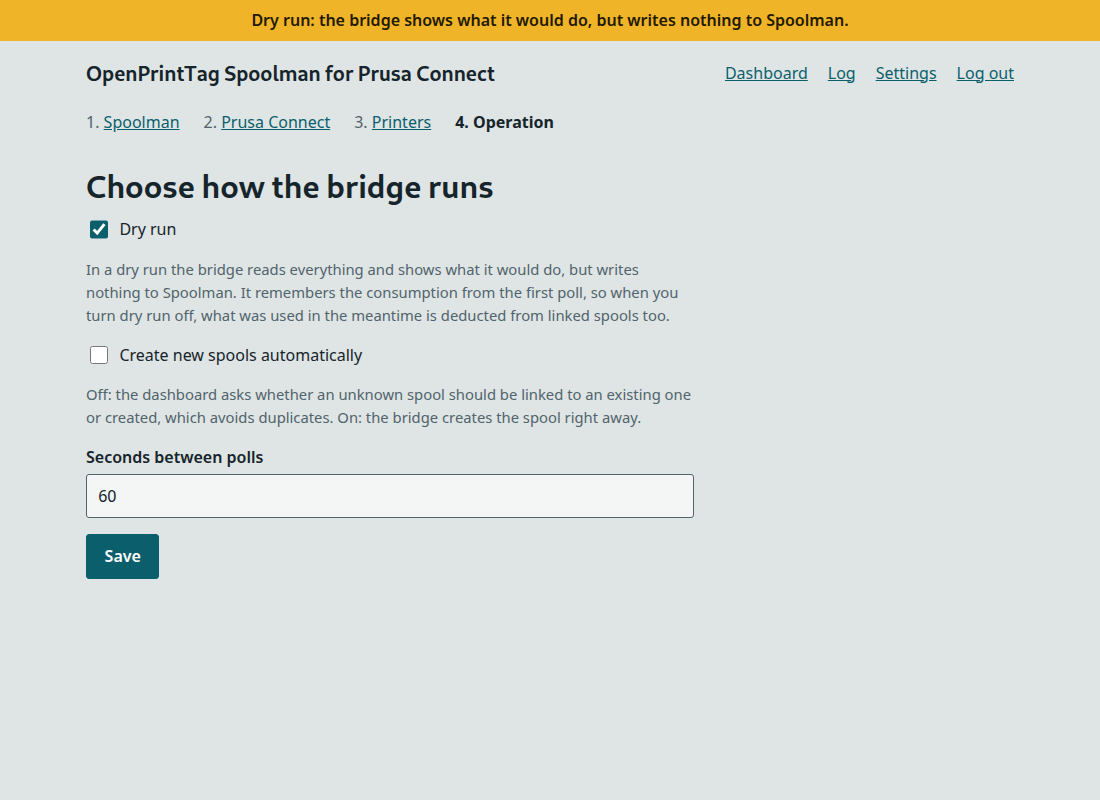
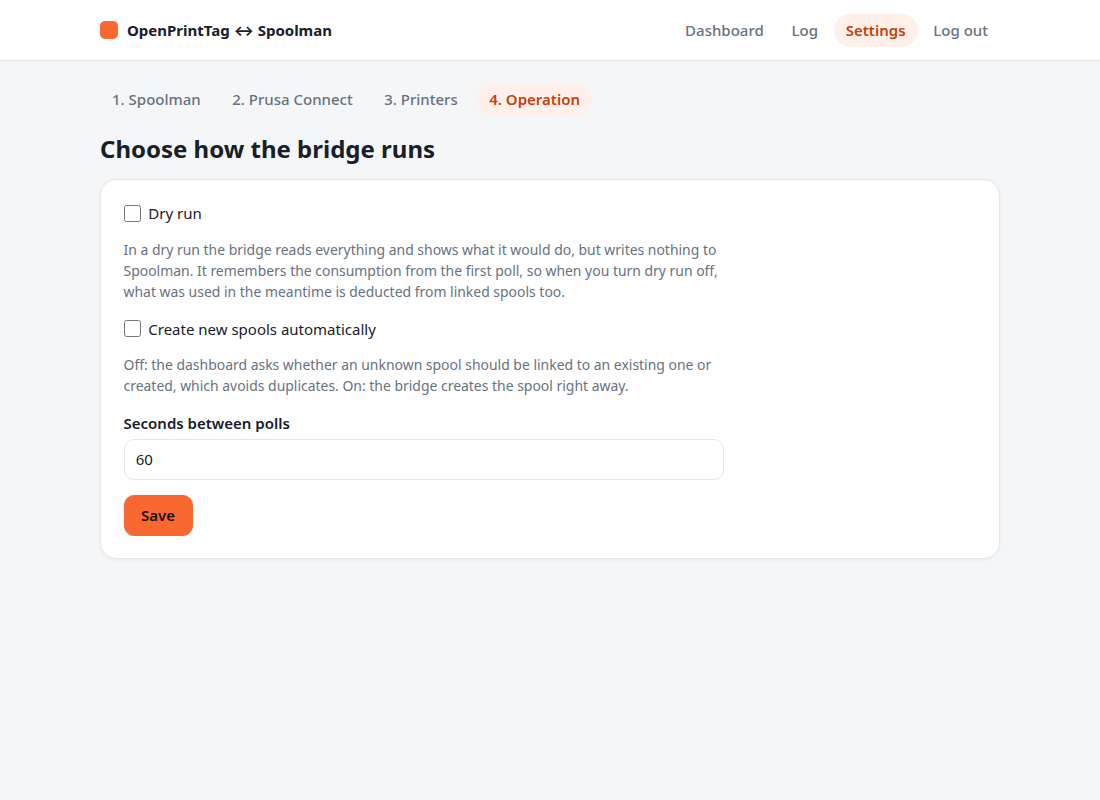
Update the screenshots for the new look

diff --git a/README.md b/README.md
@@ -106,7 +106,8 @@ Everything can be set in the browser and is saved in `data/config.json`. Environ
 |---|---|
 | ![Suggested matches for an unlinked spool](docs/screenshots/link-suggestion.png) | ![Reviewing a link before confirming](docs/screenshots/link-confirm.png) |
 | ![Setting up the Connect login](docs/screenshots/setup-connect.png) | ![Choosing printers](docs/screenshots/setup-printers.png) |
-| ![Choosing how the bridge runs](docs/screenshots/setup-operation.png) | ![The dashboard on a phone in dark mode](docs/screenshots/dashboard-mobile-dark.png) |
+| ![Choosing how the bridge runs](docs/screenshots/setup-operation.png) | ![The dashboard in dark mode](docs/screenshots/dashboard-dark.png) |
+| ![The dashboard on a phone](docs/screenshots/dashboard-mobile.png) | ![The dashboard on a phone in dark mode](docs/screenshots/dashboard-mobile-dark.png) |
 
 ## Development
 
